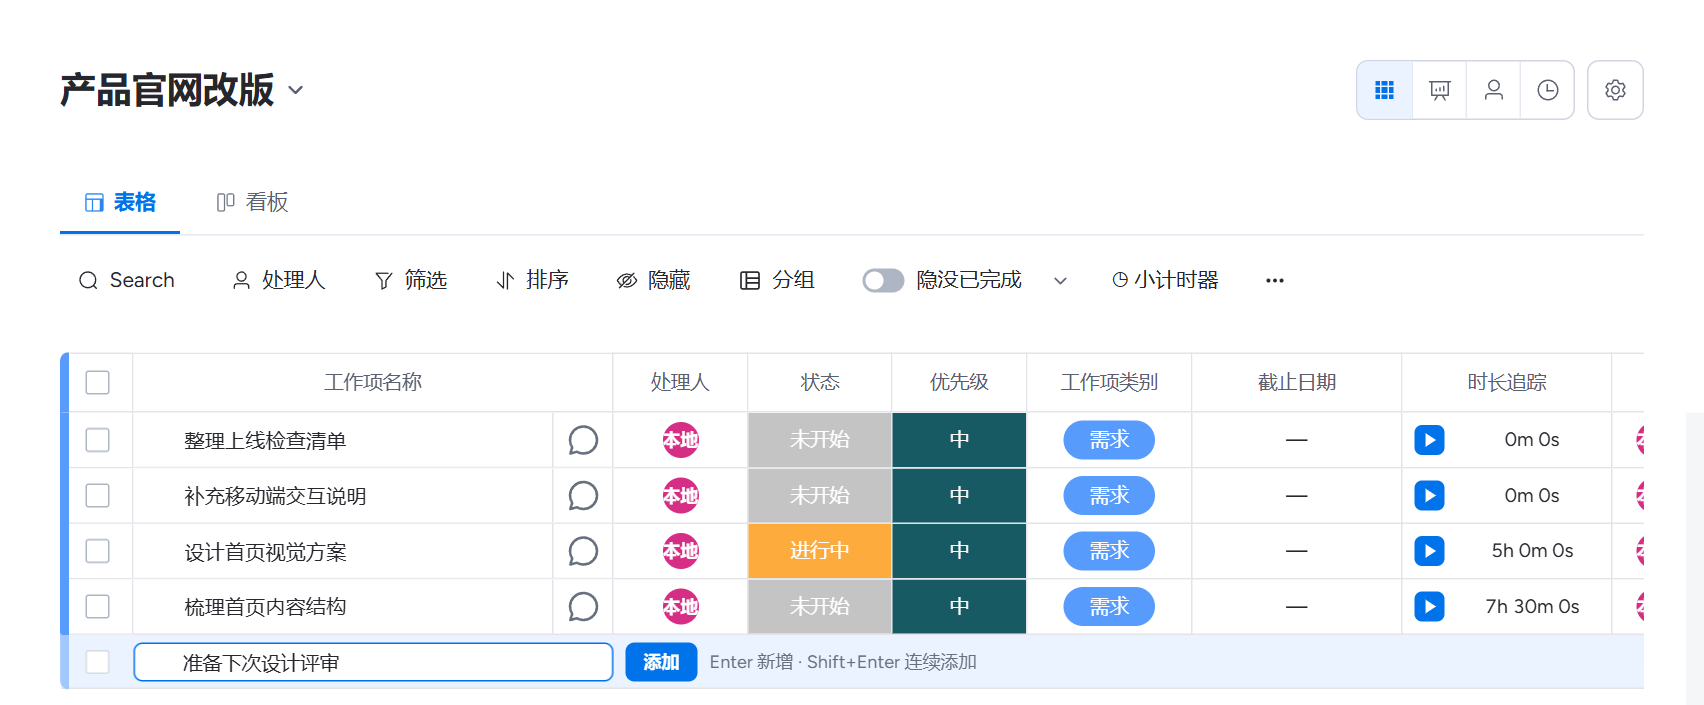
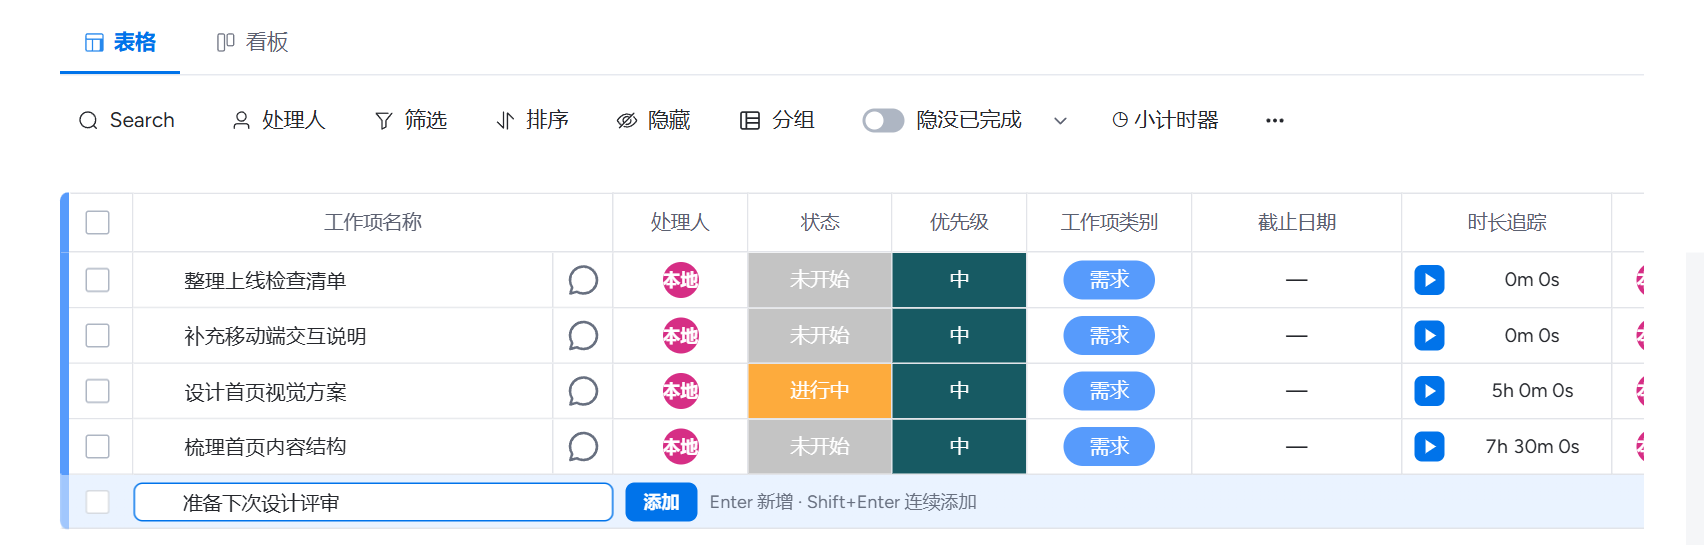
fix(web): 矮视口保留工作台侧栏并修正帮助文档与实底前景色 (SVF-1)
侧栏：宽度足够时不再因高度不足切换为抽屉；项目列表至少保留三行，放不下时整个菜单滚动，矮视口收紧行高与留白。

文档：通知提醒入口改为项目菜单，能力表补充退出项目，裁掉截图中的旧分区按钮。

前景色：蓝底与红底上的文字和图标改用固定白色，深色主题下不再显示深色字。

diff --git a/frontend/web-app/src/styles/projects.css b/frontend/web-app/src/styles/projects.css
@@ -1,5 +1,6 @@
-@media (min-width: 960px) and (min-height: 700px) {
-  /* 工作台菜单：标题与固定入口占自然高度，项目列表区占剩余高度并在内部滚动，当前项目入口始终可见。 */
+@media (min-width: 960px) {
+  /* 工作台菜单：标题与固定入口占自然高度，项目列表区占剩余高度并在内部滚动，当前项目入口始终可见。
+     矮视口下列表区至少保留三行；放不下时整个菜单纵向滚动，当前项目仍在顶部首屏。 */
   .app-shell--workspace .context-navigation {
     display: flex;
     width: 260px;
@@ -19,21 +20,41 @@
     flex: 1 1 auto;
     flex-direction: column;
     min-height: 0;
+    overflow-x: hidden;
+    overflow-y: auto;
   }
 
   .app-shell--workspace .context-navigation .project-navigation__children {
     display: flex;
     flex: 1 1 auto;
     flex-direction: column;
-    min-height: 0;
   }
 
+  /* height: 0 让列表区按剩余空间伸展，菜单的最小高度只计入三行而不是全部项目。 */
   .app-shell--workspace .context-navigation .project-navigation__scroll {
+    height: 0;
     flex: 1 1 auto;
-    min-height: 0;
+    min-height: calc(3 * var(--yp-navigation-height) + 2 * var(--yp-space-1));
     overflow-x: hidden;
     overflow-y: auto;
     overscroll-behavior: contain;
+  }
+}
+
+/* 矮视口（1366×768 屏幕的浏览器、150% 缩放的 1080p 屏幕）：收紧菜单行高与留白，让项目列表留在首屏；字号不变。 */
+@media (min-width: 960px) and (max-height: 820px) {
+  .app-shell--workspace .context-navigation {
+    --yp-navigation-height: 32px;
+    padding-top: var(--yp-space-3);
+  }
+
+  .app-shell--workspace .context-navigation .context-navigation__header {
+    margin-bottom: var(--yp-space-3);
+  }
+
+  .app-shell--workspace .context-navigation .context-navigation__group-label {
+    margin-top: var(--yp-space-3);
+    margin-bottom: var(--yp-space-1);
   }
 }
 
@@ -989,7 +1010,7 @@
 .project-workspace .yp-filter-bar__tool.active .yp-filter-bar__badge,
 .project-catalog .yp-filter-bar__tool.active .yp-filter-bar__badge {
   background: var(--yp-action-primary);
-  color: var(--yp-text-inverse);
+  color: var(--yp-on-solid);
 }
 
 .project-section-heading {
@@ -1363,49 +1384,5 @@ body.yp-work-items-drawer-resizing {
   .project-page-heading {
     flex-direction: column;
     align-items: stretch;
-  }
-}
-
-@media (min-width: 960px) and (max-height: 699.98px) {
-  .app-shell--workspace {
-    grid-template:
-      "topbar" 64px
-      "workspace" minmax(0, 1fr)
-      / minmax(0, 1fr);
-  }
-
-  .app-shell--workspace .module-rail,
-  .app-shell--workspace .context-navigation,
-  .app-shell--workspace .context-toggle {
-    display: none;
-  }
-
-  .app-shell--workspace .app-topbar {
-    grid-area: topbar;
-    padding: 0 var(--yp-space-4);
-  }
-
-  .app-shell--workspace .app-main,
-  .app-shell--workspace.app-shell--context-open .app-main {
-    grid-area: workspace;
-    padding: var(--yp-space-4);
-  }
-
-  .app-shell--workspace .mobile-nav-toggle {
-    position: fixed;
-    z-index: 40;
-    right: var(--yp-space-4);
-    bottom: var(--yp-space-4);
-    display: grid;
-    width: 48px;
-    height: 48px;
-    padding: 0;
-    place-items: center;
-    border: 0;
-    border-radius: var(--yp-radius-pill);
-    color: var(--yp-status-blue-foreground);
-    background: var(--yp-action-primary);
-    box-shadow: var(--yp-shadow-popover);
-    cursor: pointer;
   }
 }

diff --git a/frontend/web-app/src/components/projects/ProjectWorkItems.vue b/frontend/web-app/src/components/projects/ProjectWorkItems.vue
@@ -4518,7 +4518,7 @@ onBeforeUnmount(() => {
 .text-button { width: auto; color: var(--yp-action-primary); }
 .toolbar-button__count {
   display: inline-grid; min-width: 18px; height: 18px; padding: 0 5px; box-sizing: border-box; place-items: center;
-  border-radius: var(--yp-radius-pill); background: var(--yp-action-primary); color: var(--yp-text-inverse);
+  border-radius: var(--yp-radius-pill); background: var(--yp-action-primary); color: var(--yp-on-solid);
   font-size: 11px; font-weight: 600; font-variant-numeric: tabular-nums; line-height: 1;
 }
 .filter-popover {
@@ -4533,7 +4533,7 @@ onBeforeUnmount(() => {
 .filter-popover__header strong { color: var(--yp-text-primary); font-size: 15px; font-weight: 600; }
 .filter-popover__count {
   display: inline-grid; min-width: 20px; height: 20px; padding: 0 6px; box-sizing: border-box; place-items: center;
-  border-radius: var(--yp-radius-pill); background: var(--yp-action-primary); color: var(--yp-text-inverse);
+  border-radius: var(--yp-radius-pill); background: var(--yp-action-primary); color: var(--yp-on-solid);
   font-size: 12px; font-weight: 600; font-variant-numeric: tabular-nums;
 }
 .filter-popover__clear { margin-left: auto; padding: 4px 8px; }
@@ -4570,7 +4570,7 @@ onBeforeUnmount(() => {
 .filter-checkbox.checked { border-color: var(--yp-action-primary); background: var(--yp-action-primary); }
 .filter-checkbox.checked::after {
   position: absolute; top: 2px; left: 5px; width: 4px; height: 8px; box-sizing: border-box;
-  border: solid var(--yp-text-inverse); border-width: 0 2px 2px 0; content: '';
+  border: solid var(--yp-on-solid); border-width: 0 2px 2px 0; content: '';
   transform: rotate(45deg); animation: filter-check-in var(--yp-motion-fast) var(--yp-ease-standard);
 }
 @keyframes filter-check-in { from { opacity: 0; transform: rotate(45deg) scale(.4); } }

diff --git a/frontend/web-app/src/components/projects/MondayColumnQuickSort.vue b/frontend/web-app/src/components/projects/MondayColumnQuickSort.vue
@@ -180,7 +180,7 @@ const tooltipText = computed(() => props.direction === 'ASC'
 
 .sort-trigger:hover,
 .sort-trigger:focus-visible {
-  color: var(--yp-text-inverse);
+  color: var(--yp-on-solid);
   background: var(--yp-action-primary);
   border-color: transparent;
   outline: none;
@@ -188,7 +188,7 @@ const tooltipText = computed(() => props.direction === 'ASC'
 }
 
 .sort-by-column--active .sort-trigger {
-  color: var(--yp-text-inverse);
+  color: var(--yp-on-solid);
   background: var(--yp-action-primary);
   border-color: transparent;
   box-shadow: 0 2px 6px color-mix(in srgb, var(--yp-action-primary) 35%, transparent);
@@ -231,29 +231,29 @@ const tooltipText = computed(() => props.direction === 'ASC'
 .sort-trigger:hover .desc-icon,
 .sort-trigger:focus-visible .asc-icon,
 .sort-trigger:focus-visible .desc-icon {
-  fill: var(--yp-text-inverse);
+  fill: var(--yp-on-solid);
   opacity: 1;
 }
 
 /* 激活-升序（图4：上方亮白，下方半透明淡蓝） */
 .sort-by-column--asc .asc-icon {
-  fill: var(--yp-text-inverse) !important;
+  fill: var(--yp-on-solid) !important;
   opacity: 1 !important;
 }
 
 .sort-by-column--asc .desc-icon {
-  fill: var(--yp-text-inverse) !important;
+  fill: var(--yp-on-solid) !important;
   opacity: 0.42 !important;
 }
 
 /* 激活-降序（图3：上方半透明淡蓝，下方亮白） */
 .sort-by-column--desc .asc-icon {
-  fill: var(--yp-text-inverse) !important;
+  fill: var(--yp-on-solid) !important;
   opacity: 0.42 !important;
 }
 
 .sort-by-column--desc .desc-icon {
-  fill: var(--yp-text-inverse) !important;
+  fill: var(--yp-on-solid) !important;
   opacity: 1 !important;
 }
 

diff --git a/frontend/web-app/src/components/my-time/day/DayTimeline.vue b/frontend/web-app/src/components/my-time/day/DayTimeline.vue
@@ -666,7 +666,7 @@ defineExpose({ scrollToWorkday, pendingEl, discardDraft })
 .day-timeline__future{position:absolute;left:0;right:0;background:repeating-linear-gradient(135deg,transparent 0 6px,color-mix(in srgb,var(--yp-border-subtle) 60%,transparent) 6px 7px);pointer-events:none}
 .day-timeline__now{position:absolute;left:-6px;right:0;z-index:4;height:0;border-top:2px solid var(--yp-status-red);pointer-events:none}
 .day-timeline__now::before{content:'';position:absolute;top:-5px;left:0;width:8px;height:8px;border-radius:50%;background:var(--yp-status-red)}
-.day-timeline__now span{position:absolute;top:-9px;right:0;padding:1px 5px;border-radius:var(--yp-radius-xs);background:var(--yp-status-red);color:var(--yp-text-inverse);font:600 11px/14px var(--yp-font-mono)}
+.day-timeline__now span{position:absolute;top:-9px;right:0;padding:1px 5px;border-radius:var(--yp-radius-xs);background:var(--yp-status-red);color:var(--yp-on-solid);font:600 11px/14px var(--yp-font-mono)}
 
 .day-block{--work-item-accent:var(--day-block-color);position:absolute;z-index:2;display:flex;flex-direction:column;gap:1px;box-sizing:border-box;min-width:0;padding:4px 10px 4px 14px;overflow:hidden;border:1px solid color-mix(in srgb,var(--day-block-color) 35%,var(--yp-border-subtle));border-radius:var(--yp-radius-sm);background:color-mix(in srgb,var(--day-block-color) 10%,var(--yp-bg-surface));color:var(--yp-text-primary);font:14px/18px var(--yp-font-family);text-align:left;cursor:pointer;transition:box-shadow var(--yp-motion-fast) ease-out,border-color var(--yp-motion-fast) ease-out}
 .day-block.work-item-accent-bar::before{top:-1px;bottom:-1px;left:-1px}

diff --git a/frontend/web-app/src/components/projects/ProjectCreateDialog.vue b/frontend/web-app/src/components/projects/ProjectCreateDialog.vue
@@ -364,7 +364,7 @@ async function submit(): Promise<void> {
 :global(.project-create-dialog__form .el-input__wrapper.is-focus), :global(.project-create-dialog__form .el-textarea__inner:focus) { background: var(--yp-bg-surface); box-shadow: 0 0 0 1px var(--yp-focus-ring) inset, 0 0 0 3px color-mix(in srgb, var(--yp-focus-ring) 22%, transparent); }
 :global(.project-create-dialog__form .el-textarea__inner) { padding: 10px 12px; line-height: 1.6; }
 :global(.project-create-dialog__name) { display: flex; width: 100%; align-items: center; gap: var(--yp-space-3); }
-:global(.project-create-dialog__tile), :global(.project-preview__tile) { display: grid; flex: 0 0 44px; height: 44px; place-items: center; border-radius: var(--yp-radius-md); color: var(--yp-text-inverse); background: linear-gradient(135deg, var(--yp-action-primary), color-mix(in srgb, var(--yp-action-primary) 55%, var(--yp-status-purple))); font-size: 20px; font-weight: 600; }
+:global(.project-create-dialog__tile), :global(.project-preview__tile) { display: grid; flex: 0 0 44px; height: 44px; place-items: center; border-radius: var(--yp-radius-md); color: var(--yp-on-solid); background: linear-gradient(135deg, var(--yp-action-primary), color-mix(in srgb, var(--yp-action-primary) 55%, var(--yp-status-purple))); font-size: 20px; font-weight: 600; }
 :global(.project-create-dialog__name-input) { flex: 1; min-width: 0; }
 :global(.project-create-dialog__name-input .el-input__wrapper) { height: 44px; padding: 0 12px; }
 :global(.project-create-dialog__name-input .el-input__inner) { font-size: 16px; font-weight: 600; }

diff --git a/frontend/web-app/src/components/projects/workItemTimer.css b/frontend/web-app/src/components/projects/workItemTimer.css
@@ -1,5 +1,5 @@
 .timer-cell { position: relative; display: flex; align-items: center; justify-content: center; width: 100%; height: var(--work-item-table-row-height, 40px); padding: 0; box-sizing: border-box; font-variant-numeric: tabular-nums; white-space: nowrap; color: var(--yp-text-primary); }
 .timer-cell:has(.timer-toggle) { padding-left: 34px; }
-.timer-cell .timer-toggle { position: absolute; left: 8px; display: grid; place-items: center; width: 20px; height: 20px; box-sizing: border-box; border: 0; border-radius: 5px; background: var(--el-color-primary); color: var(--yp-text-inverse); padding: 3px; }
+.timer-cell .timer-toggle { position: absolute; left: 8px; display: grid; place-items: center; width: 20px; height: 20px; box-sizing: border-box; border: 0; border-radius: 5px; background: var(--el-color-primary); color: var(--yp-on-solid); padding: 3px; }
 .timer-cell .timer-toggle svg { width: 14px; height: 14px; fill: currentColor; }
 .timer-cell .duration { font-size: 13px; text-align: center; }

diff --git a/frontend/web-app/src/views/projects/ProjectLayout.vue b/frontend/web-app/src/views/projects/ProjectLayout.vue
@@ -44,7 +44,7 @@ onBeforeUnmount(() => { request++; window.removeEventListener(PROJECT_LIFECYCLE_
       class="ended-project-banner"
       tone="info"
     >
-      项目已结束，内容为只读，仍计入统计。负责人或公司管理员可以在「设置」中重新打开。
+      项目已结束，内容为只读，仍计入统计。负责人或公司管理员可以在项目菜单或「设置」中重新打开。
     </yp-notice>
     <router-view :key="route.name === 'project-statistics' ? String(route.params.projectId) : 'project-page'" />
   </section>

diff --git a/frontend/web-app/src/components/projects/WorkItemDiscussionIcon.vue b/frontend/web-app/src/components/projects/WorkItemDiscussionIcon.vue
@@ -46,7 +46,7 @@ defineProps<{ count?: number | undefined }>()
   box-sizing: border-box;
   border-radius: 999px;
   background: var(--yp-action-primary);
-  color: var(--yp-text-inverse);
+  color: var(--yp-on-solid);
   font-size: 10px;
   font-weight: 600;
   line-height: 1;

diff --git a/frontend/web-app/src/components/import/ImportSteps.vue b/frontend/web-app/src/components/import/ImportSteps.vue
@@ -86,7 +86,7 @@ defineProps<{
 
 .import-steps__item.is-current .import-steps__mark {
   border-color: var(--yp-action-primary);
-  color: var(--yp-text-inverse);
+  color: var(--yp-on-solid);
   background: var(--yp-action-primary);
 }
 

diff --git a/.agents/notes/implemented/product/2026-10-30-sidebar-project-order.md b/.agents/notes/implemented/product/2026-10-30-sidebar-project-order.md
@@ -20,7 +20,7 @@ Status: implemented
 - `useProjectRecents.togglePinned` 接收项目：没打开过的项目置顶时以 `openedAt: 0` 记入，取消置顶时整条移除，不算作最近打开；「最近」表格对这类项目不显示最近打开日期。
 
 - 布局（2026-10-31 起）：「当前项目」五个分区排在「我的工时」之后、「项目」标题之前，始终显示，不随「项目」折叠隐藏；侧栏为 flex 纵向布局，项目列表与更多项目放在 `.project-navigation__scroll` 中占剩余高度并内部滚动。不以减少显示数量、缩小字号或整栏滚动解决长列表。
-- 工作台窗口宽度不足 960px 或高度不足 700px 时使用现有移动导航抽屉，抽屉整体滚动；1280×720、125% 缩放后的等效视口放不下固定入口，继续固定侧栏会把项目列表挤成 0 高度，因此由用户确认采用低高度抽屉。
+- 工作台窗口宽度不足 960px 时使用现有移动导航抽屉，抽屉整体滚动；宽度足够时不论高度都显示固定侧栏，与其他模块一致。项目列表区至少保留三行高度，视口放不下固定入口加三行时整个菜单纵向滚动，「当前项目」仍位于顶部首屏，项目较多时仍只在列表区内部滚动。（2026-11-01 起；此前高度不足 700px 也改用抽屉。）
 - 项目列表、列表行和名称限制在菜单宽度内，长名称以省略号显示，悬停查看完整名称；桌面列表只纵向滚动，移动抽屉内的项目列表不建立独立滚动区，菜单不出现横向滚动条。
 
 `ids` 是 `GET /projects` 的只扩展参数：排序、分页、总数与权限谓词不变，旧客户端不受影响。
@@ -32,6 +32,7 @@ Status: implemented
 - 把最近与置顶存到服务端并在网页与桌面端之间同步：能跨设备一致，但需要新表、新接口和本地数据迁移，超出这次调整的范围，以后需要跨设备同步时再评估。
 - 「…」继续跳转「管理项目」：离开当前页面才能找到第 11 个以后的项目，也无法就地置顶。
 - 更多项目弹层内分页或搜索全部项目：与菜单顶部搜索重复，弹层复杂度上升。
+- 视口高度不足 700px 时改用移动导航抽屉：1366×768 屏幕的浏览器视口、1080p 屏幕 150% 缩放和 768 屏幕上最大化的桌面客户端都低于 700px，常见笔记本会一直看不到工作台侧栏，且只有工作台切换，与其他模块不一致。
 
 ## Consequences
 

diff --git a/frontend/web-app/src/docs-site/content/intro/capabilities.md b/frontend/web-app/src/docs-site/content/intro/capabilities.md
@@ -11,7 +11,8 @@ audience: [member]
 
 | 你能做什么 | 入口 | 可用角色 | 详细说明 |
 |---|---|---|---|
-| 创建项目、管理成员、结束、归档与删除；负责人或公司管理员可转交负责人 | 工作台 →「管理项目」，项目内「成员」「设置」 | 成员（项目负责人管理本项目） | [项目](../guide/projects.md) |
+| 创建项目、管理成员、结束、归档与删除；负责人或公司管理员可转交负责人 | 工作台 →「管理项目」，项目菜单（⋯），项目内「成员」「设置」 | 成员（项目负责人管理本项目） | [项目](../guide/projects.md) |
+| 退出不再参与的项目，同时停止自己在该项目中的计时 | 项目菜单（⋯）→「退出项目」 | 项目成员（负责人需先转交） | [退出项目](../guide/projects.md#退出项目) |
 | 在表格或看板中查看工作项，看板拖动卡片推进状态 | 项目 →「工作项」 | 成员 | [工作项表格与看板](../guide/work-items.md) |
 | 在表格顶部「新增工作项」，直接填写名称 | 表格工具栏 | 项目成员 | [工具栏](../guide/work-items.md#工具栏) |
 | 从 Excel 或 CSV 导入工作项：映射列与取值，遇到同名工作项可跳过或更新 | 表格工具栏 →「新增工作项」右侧 ▾ | 项目成员 | [导入工作项](../guide/work-items.md#导入工作项) |
@@ -58,7 +59,7 @@ audience: [member]
 | 你能做什么 | 入口 | 可用角色 | 详细说明 |
 |---|---|---|---|
 | 按未读、@我、评论与回复、指派给我等分类处理通知 | 顶栏收件箱 | 成员 | [收件箱与通知](../guide/inbox.md) |
-| 按项目设置通知提醒 | 项目名 → 通知设置 | 项目成员 | [项目通知偏好](../guide/inbox.md#项目通知偏好) |
+| 按项目设置通知提醒 | 项目菜单（⋯）→「通知提醒」 | 项目成员 | [项目通知偏好](../guide/inbox.md#项目通知偏好) |
 
 ## 桌面客户端
 

diff --git a/frontend/web-app/src/docs-site/content/guide/projects.md b/frontend/web-app/src/docs-site/content/guide/projects.md
@@ -14,7 +14,7 @@ tour: workspace
 - 模块栏「工作台」→ 二级导航「管理项目」：全部项目的列表。
 - 二级导航下方列出你参与的项目，最多 10 个：置顶的项目在最前，其次是最近打开的，其余按名称排列。鼠标移到项目上，点右侧的星标即可置顶或取消置顶；点下方的「…」会在右侧弹出更多项目（最多 10 个），同样可以置顶。置顶与最近记录保存在当前浏览器。顶部的搜索按钮可以快速查找。
 - 进入项目后，工作台菜单「我的工时」下方的「当前项目」里有「工作项」「统计」「成员」「动态」「设置」，始终可见。
-- 长项目名以省略号显示，悬停可查看完整名称，菜单只纵向滚动；窗口高度不足 700px 时，点击右下角的导航按钮打开完整菜单抽屉。
+- 长项目名以省略号显示，悬停可查看完整名称，菜单只纵向滚动；窗口较矮时可以滚动整个菜单查看项目列表。
 
 - 项目页右上角的 ⋯ 是项目菜单：切换工作项、统计、成员、动态和设置，设置本项目的通知提醒；负责人和公司管理员还可以在这里结束、重新打开、归档或恢复项目，成员可以退出项目。表格工具栏右侧的 ⋯ 是表格设置，工作项行上的 ⋯ 是该工作项的操作，三者互不相同。
 
